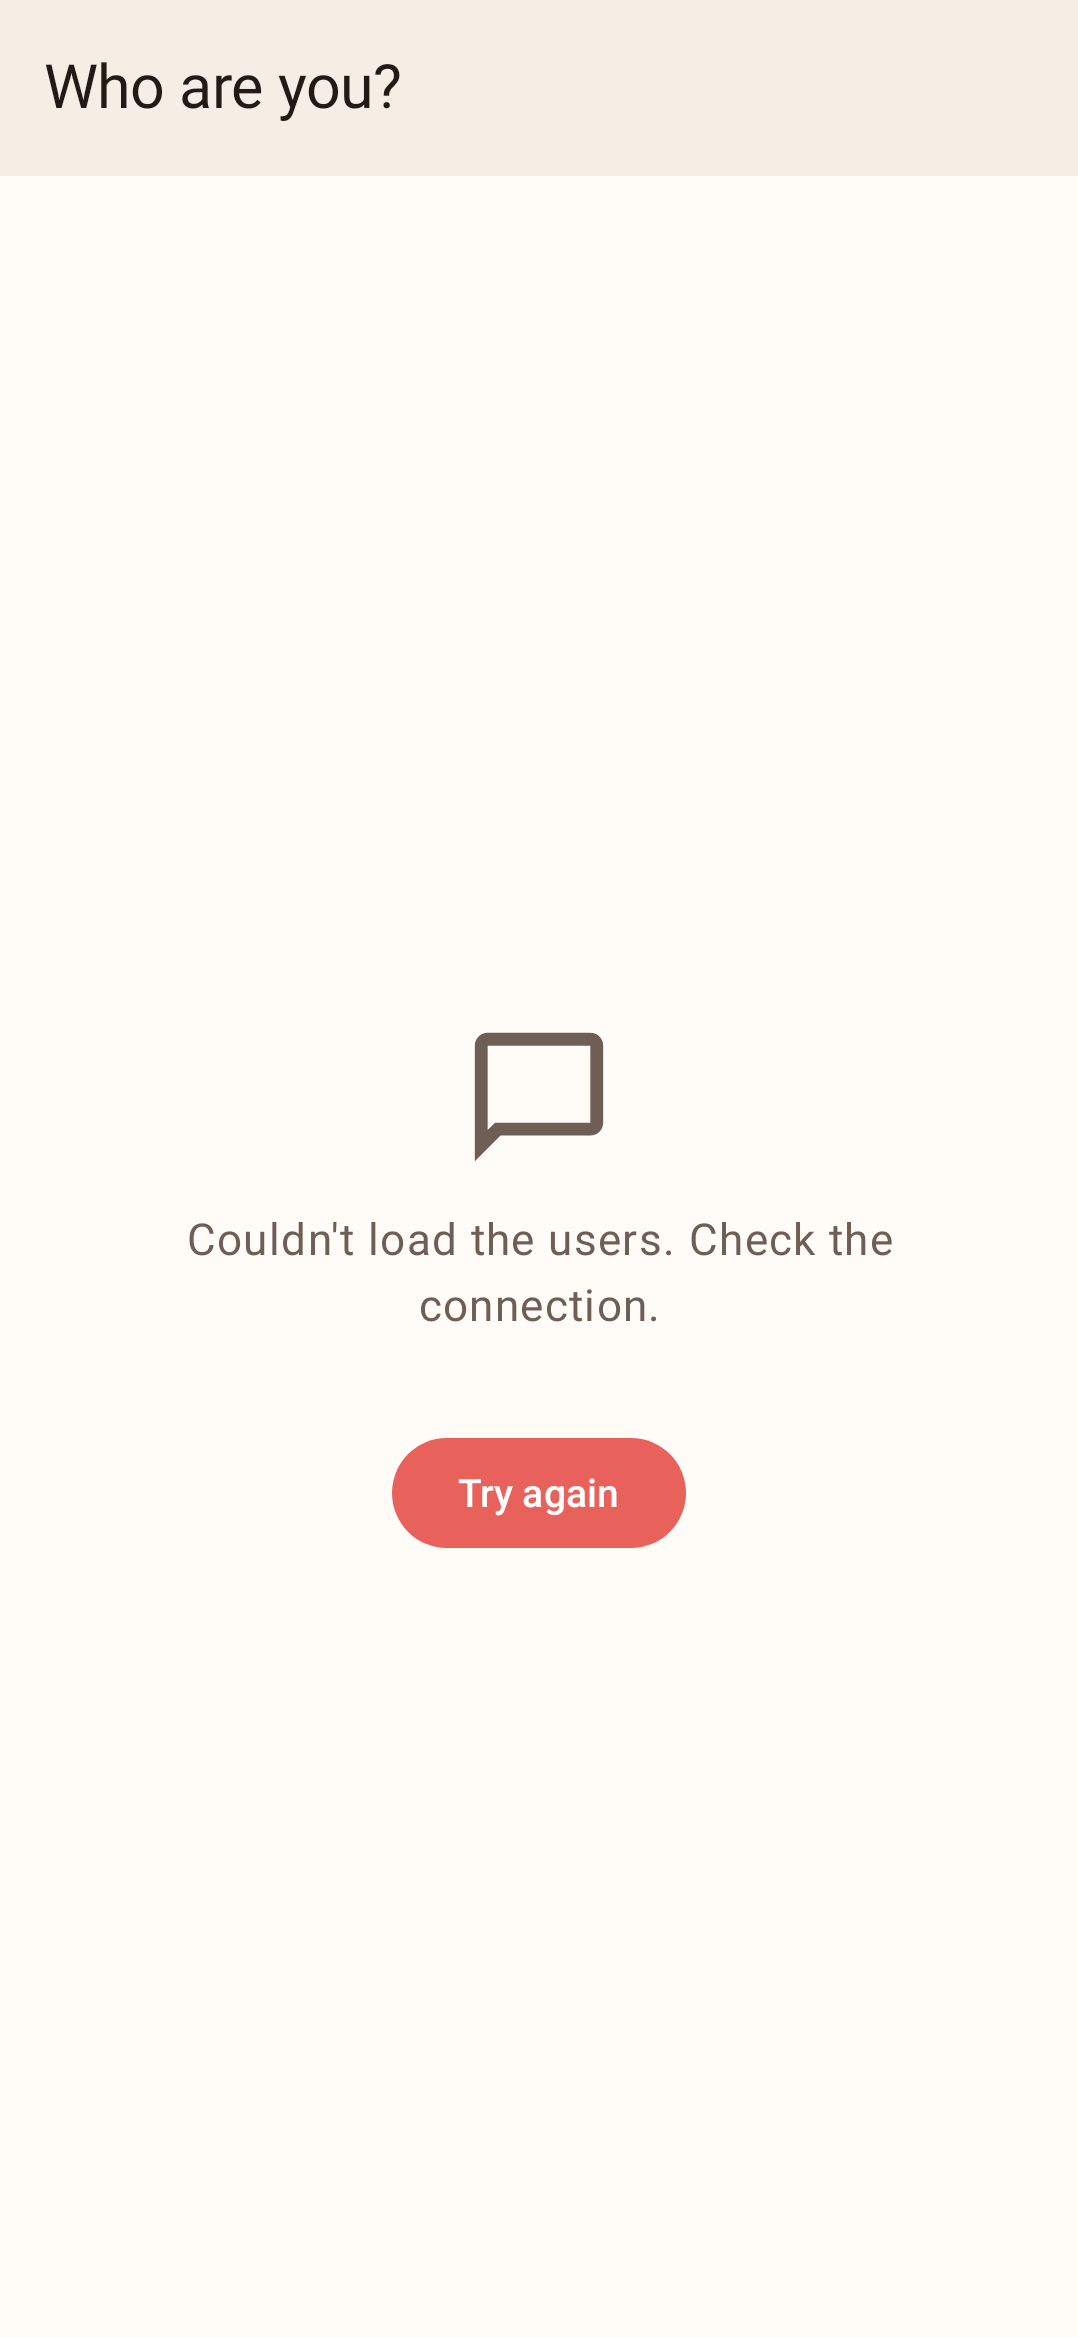
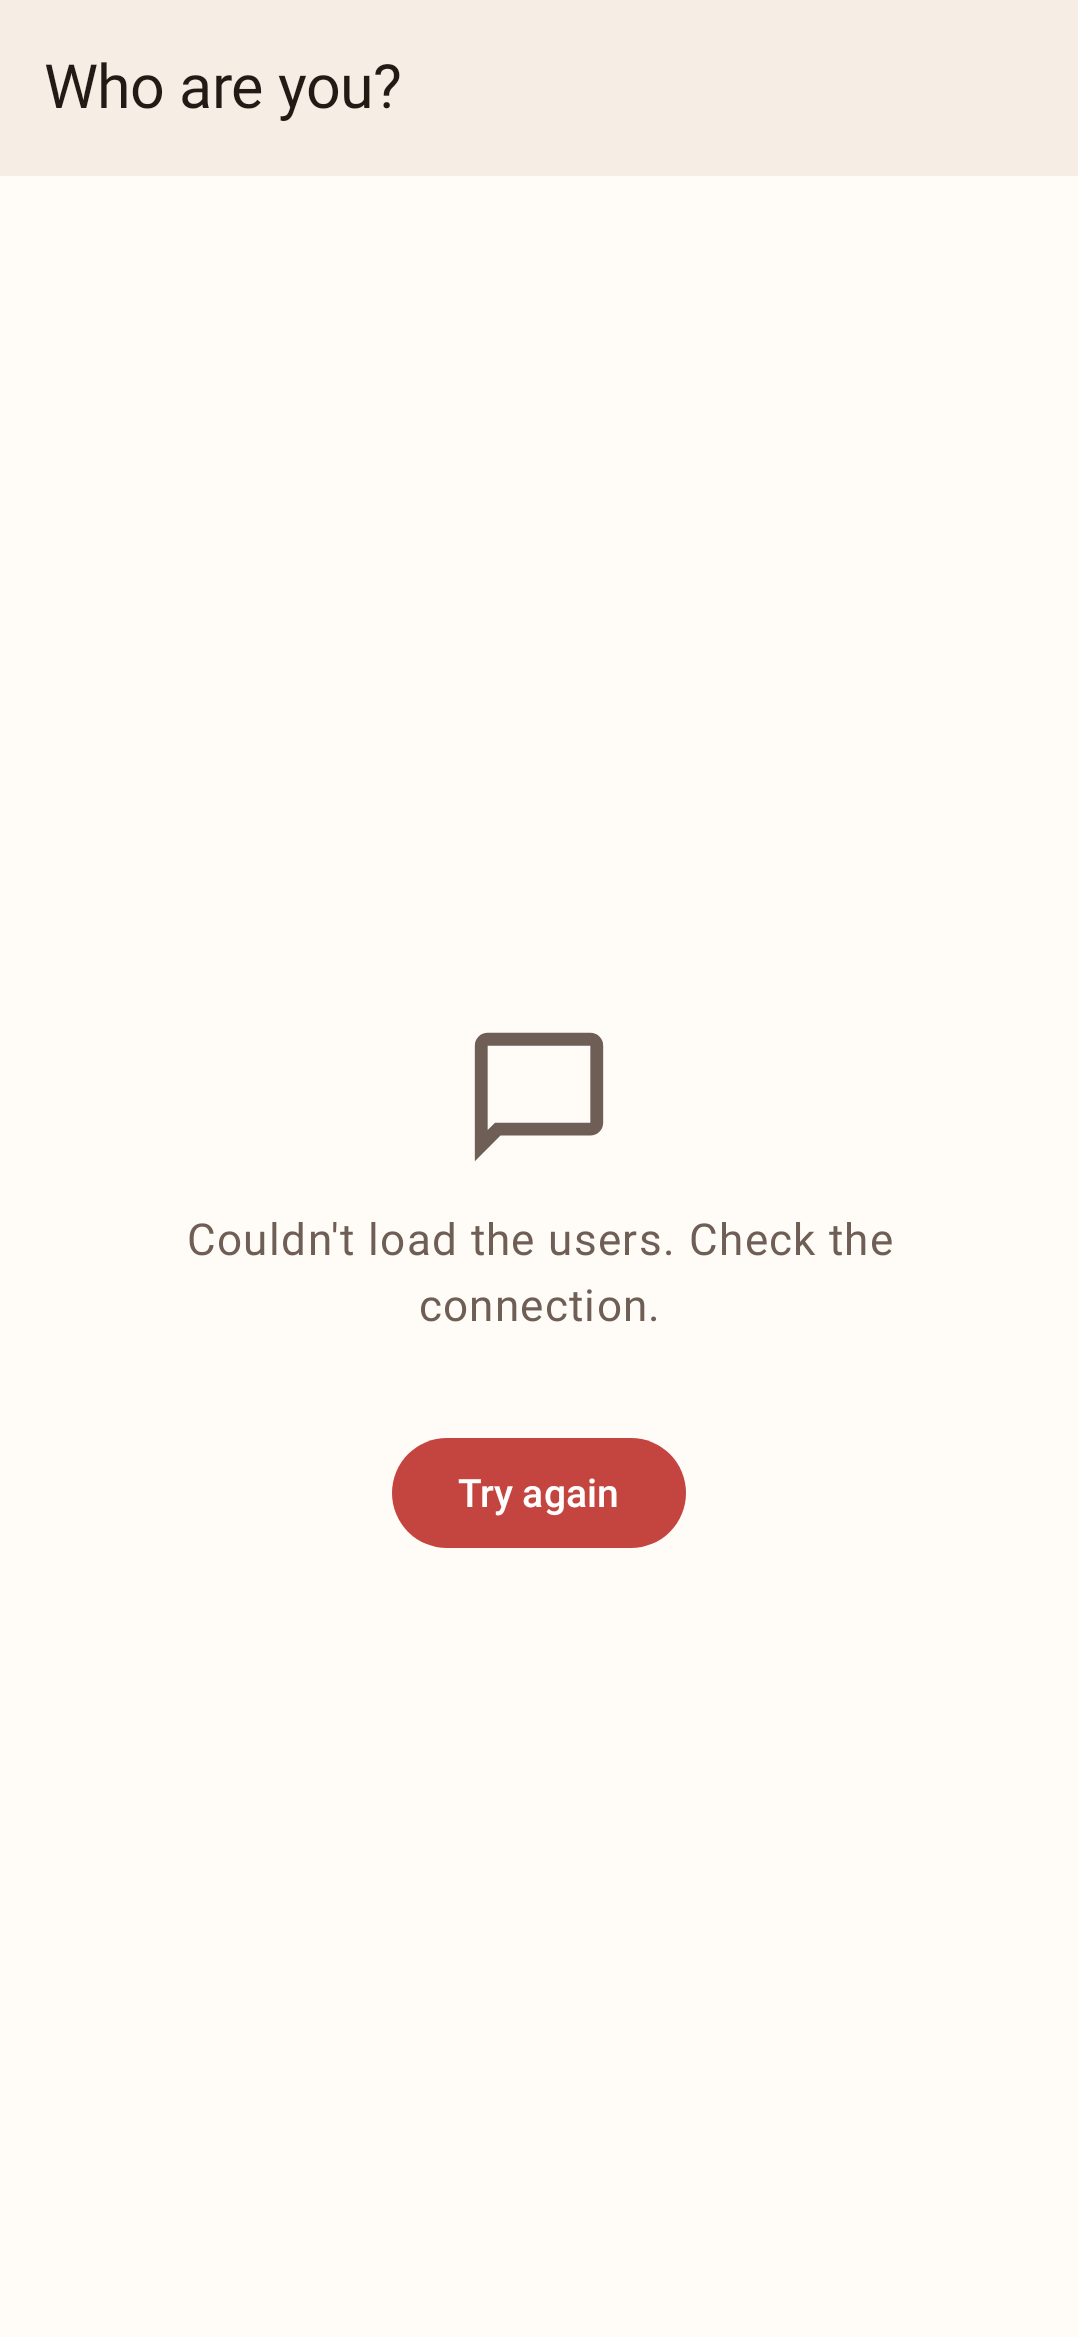
fix: darken the light accent and rerun tests on sample changes
The coral accent read below WCAG's 4.5:1 for small text in the light
theme (3.3:1 on white); #C4453F gives 4.9:1. The app's tests that read
server/api-samples now declare the folder as an input, so an edited
sample runs them again instead of leaving them up to date.

Changed region(s): [[0.3673, 0.5935, 0.6429, 0.6872]]

diff --git a/build-logic/src/main/kotlin/JvmLibraryConventionPlugin.kt b/build-logic/src/main/kotlin/JvmLibraryConventionPlugin.kt
@@ -5,8 +5,8 @@ import org.gradle.kotlin.dsl.configure
 import org.jetbrains.kotlin.gradle.dsl.JvmTarget
 import org.jetbrains.kotlin.gradle.dsl.KotlinJvmProjectExtension
 
-// A pure Kotlin module without Android (:crossfeature:domain, :crossfeature:data), on the same Java as the Android
-// modules.
+// A pure Kotlin module without Android (:crossfeature:domain, :core:mvi, :core:network), on the same Java as the
+// Android modules.
 class JvmLibraryConventionPlugin : Plugin<Project> {
     override fun apply(target: Project) {
         with(target) {

diff --git a/core/designsystem/src/main/kotlin/krio/systemdesign/chatapp/core/designsystem/theme/ColorSchemes.kt b/core/designsystem/src/main/kotlin/krio/systemdesign/chatapp/core/designsystem/theme/ColorSchemes.kt
@@ -8,7 +8,7 @@ import androidx.compose.ui.graphics.Color
 // on every device. A warm one: cream surfaces and a coral accent. Every role the app uses is set, so none falls
 // back to Material's purple baseline.
 internal val LightColorScheme = lightColorScheme(
-    primary = Color(0xFFE8615A),
+    primary = Color(0xFFC4453F),
     onPrimary = Color(0xFFFFFFFF),
     primaryContainer = Color(0xFFFFDAD3),
     onPrimaryContainer = Color(0xFF3B0A06),

diff --git a/docs/architecture/ru/testing.md b/docs/architecture/ru/testing.md
@@ -185,8 +185,7 @@ DTO общие через `contract/`, поэтому имена полей ра
 
 `apiSample("bots.json")` читает образец на любой стороне, своим `Json` этой стороны, а проверка сравнивает деревья JSON: порядок полей не важен, а переименованное, лишнее или пропавшее поле — важно. Изменение формата или адреса на одной стороне валит её тесты, пока не обновят образец, а потом и другую сторону.
 
-> [!NOTE]
-> Сборка сервера объявляет папку образцов входом своих тестов, поэтому правка образца запускает их снова. Сборка приложения пока нет: после правки образца запускайте тесты приложения с `--rerun-tasks`.
+Обе сборки объявляют папку образцов входом тех тестов, которые её читают (тестов сервера и тестов приложения в `:core:network` и `:crossfeature:data`), поэтому правка образца запускает их снова, а не оставляет актуальными.
 
 ### Скриншоты
 

diff --git a/docs/architecture/en/testing.md b/docs/architecture/en/testing.md
@@ -185,8 +185,7 @@ The DTOs are shared through `contract/`, so the field names can't drift apart, b
 
 `apiSample("bots.json")` reads a sample on either side, parsed with that side's own `Json`, and the check compares JSON trees, so field order doesn't matter, but a renamed, extra or missing field does. Changing a format or an address on one side fails that side's tests until the sample, and then the other side, are updated too.
 
-> [!NOTE]
-> The server's build declares the samples folder as an input of its tests, so editing a sample runs them again. The app's build doesn't yet: after editing a sample, run the app's tests with `--rerun-tasks`.
+Both builds declare the samples folder as an input of the tests that read it (the server's, and the app's in `:core:network` and `:crossfeature:data`), so editing a sample runs them again instead of leaving them up to date.
 
 ### Screenshots
 
